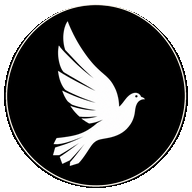
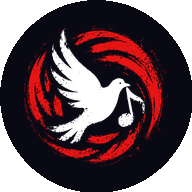
feat: integrate red Nowarfy YouToo identity

diff --git a/index.html b/index.html
@@ -4,7 +4,7 @@
     <meta charset="UTF-8">
     <meta name="viewport" content="width=device-width, initial-scale=1.0, maximum-scale=1.0, user-scalable=no">
     <title>Nowarfy · YouToo</title>
-    <meta name="theme-color" content="#8B5CF6">
+    <meta name="theme-color" content="#ef4444">
     <meta name="apple-mobile-web-app-capable" content="yes">
     <meta name="apple-mobile-web-app-status-bar-style" content="black-translucent">
     <link rel="manifest" href="/manifest.webmanifest">
@@ -674,8 +674,11 @@
         body.mode-youtoo .sidebar::after { content: 'VIDEO · AUDIO · CREADORES'; color: #72738f; font-weight: 800; font-size: .58rem; letter-spacing: .13em; margin-top: auto; padding: 0 10px 6px; }
         body.mode-youtoo .logo { font-size: 1.5rem; padding: 0 10px; }
         body.mode-youtoo .brand-nowarfi { display: none; }
-        .brand-youtoo { display: none; align-items: center; gap: 9px; }
-        .brand-youtoo img { width: 38px; height: 38px; display: block; border-radius: 50%; background: transparent; object-fit: contain; filter: drop-shadow(0 0 7px rgba(255,255,255,.16)); }
+        .brand-youtoo { display: none; align-items: center; min-width: 0; }
+        .brand-lockup { display: inline-flex; align-items: center; gap: 8px; min-width: 0; color: #fff; white-space: nowrap; }
+        .brand-lockup-mark { width: 42px; height: 42px; flex: 0 0 42px; display: block; object-fit: contain; filter: drop-shadow(0 0 9px rgba(239,68,68,.2)); }
+        .brand-lockup-text { display: inline-flex; align-items: baseline; gap: 5px; color: #fff; font: 800 1.08rem/1 'Manrope', sans-serif; letter-spacing: -.055em; }
+        .brand-lockup-text span { color: #f3f4f6; font-size: .72em; letter-spacing: -.04em; }
         body.mode-youtoo .brand-youtoo { display: flex; }
         body.mode-youtoo .nav-links li { border-radius: 11px; padding: 11px 13px; }
         body.mode-youtoo .nav-links li.active { background: linear-gradient(90deg, rgba(167,139,250,.2), rgba(94,234,212,.05)); }
@@ -834,6 +837,13 @@
         body.mode-youtoo .sidebar { min-height: 0; padding: 18px 14px calc(var(--player-height) + 18px); gap: 16px; overflow-y: auto; overscroll-behavior: contain; scroll-padding-bottom: calc(var(--player-height) + 18px); }
         body.mode-youtoo .logo { display: flex; align-items: center; min-height: 38px; }
         .brand-youtoo small { color: #8f90aa; font: 800 .62rem 'Manrope', sans-serif; letter-spacing: .08em; }
+        .home-welcome-copy { min-width: 0; display: flex; flex-direction: column; align-items: flex-start; }
+        .home-welcome-copy:has(.home-welcome-logo) { align-items: center; text-align: center; }
+        .home-welcome-logo { position: relative; z-index: 1; display: inline-flex; align-items: center; gap: 13px; margin: 0 auto 13px; color: #fff; }
+        .home-welcome-logo .brand-lockup-mark { width: 84px; height: 84px; flex-basis: 84px; }
+        .home-welcome-logo .brand-lockup-text { font-size: clamp(1.35rem, 3vw, 2rem); }
+        .home-welcome > .home-welcome-copy { min-width: 0; }
+        .home-welcome-copy .home-welcome-kicker { margin-top: 2px; }
         .nowarfy-nav-groups { display: flex; flex: 0 0 auto; min-height: auto; flex-direction: column; gap: 18px; }
         .nowarfy-nav-group { margin: 0; }
         .nowarfy-nav-label { display: block; padding: 0 11px 7px; color: #73748f; font: 800 .62rem 'Manrope', sans-serif; letter-spacing: .13em; text-transform: uppercase; }
@@ -1083,8 +1093,10 @@
         @media (max-width: 768px) {
             body.mode-youtoo .sidebar { position: sticky; top: 0; z-index: 900; width: 100%; min-height: 58px; height: auto; padding: 9px 12px; display: grid; grid-template-columns: 1fr auto auto; gap: 8px; align-items: center; overflow: visible; }
             body.mode-youtoo .sidebar .logo { display: flex; align-items: center; padding: 0; min-width: 0; overflow: hidden; }
-            body.mode-youtoo .sidebar .brand-youtoo { display: flex !important; align-items: center; min-width: 0; overflow: hidden; color: #fff; font-size: 1rem; gap: 6px; white-space: nowrap; }
-            body.mode-youtoo .sidebar .brand-youtoo img { width: 30px; height: 30px; }
+        body.mode-youtoo .sidebar .brand-youtoo { display: flex !important; align-items: center; min-width: 0; overflow: hidden; color: #fff; font-size: 1rem; }
+        body.mode-youtoo .sidebar .brand-lockup { width: 100%; gap: 7px; }
+        body.mode-youtoo .sidebar .brand-lockup-mark { width: 39px; height: 39px; flex-basis: 39px; }
+        body.mode-youtoo .sidebar .brand-lockup-text { font-size: 1.02rem; }
             .nowarfy-mobile-action { display: inline-flex; align-items: center; justify-content: center; gap: 6px; width: auto; min-width: 40px; height: 40px; padding: 0 10px; border: 1px solid rgba(190,188,255,.2); border-radius: 12px; color: #f4f2ff; background: rgba(255,255,255,.08); font-size: 1rem; }
             .nowarfy-mobile-action-text { display: inline; font-size: .7rem; font-weight: 800; letter-spacing: .01em; }
             .nowarfy-mobile-action:active { transform: scale(.94); }
@@ -1121,6 +1133,8 @@
         @media (max-width: 380px) {
             body.mode-youtoo .sidebar { padding-left: 8px; padding-right: 8px; }
             body.mode-youtoo .sidebar .brand-youtoo { font-size: .9rem; }
+            body.mode-youtoo .sidebar .brand-lockup-mark { width: 34px; height: 34px; flex-basis: 34px; }
+            body.mode-youtoo .sidebar .brand-lockup-text { font-size: .9rem; }
             body.mode-youtoo .nowarfy-mobile-action { min-width: 36px; width: auto; height: 36px; padding: 0 8px; gap: 5px; }
             body.mode-youtoo .nowarfy-mobile-action-text { font-size: .64rem; }
             body.mode-youtoo .player-bar { height: 146px; min-height: 146px; }
@@ -1137,7 +1151,7 @@
     <div class="main-container">
         <!-- SIDEBAR -->
         <aside class="sidebar" aria-label="Navegación principal de Nowarfy">
-            <div class="logo"><span class="brand-nowarfi"><img class="brand-nowarfi-mark" src="assets/nowarfy-icon-512.png" alt=""> Nowarfy</span><span class="brand-youtoo"><img src="assets/nowarfy-icon-512.png" alt="Paloma de Nowarfy"> Nowarfy <small>· YouToo</small></span></div>
+            <div class="logo"><span class="brand-nowarfi"><img class="brand-nowarfi-mark" src="assets/nowarfy-logo-red-solid.png" alt=""> Nowarfy</span><span class="brand-youtoo"><span class="brand-lockup"><img class="brand-lockup-mark" src="assets/nowarfy-logo-red-solid.png" alt=""><span class="brand-lockup-text"><strong>Nowarfy</strong><span>YouToo</span></span></span></span></div>
             <button type="button" class="nowarfy-mobile-action nowarfy-mobile-menu-toggle" id="nowarfyMobileMenuToggle" onclick="toggleNowarfyMobileNav()" aria-label="Abrir menú" aria-expanded="false"><i class="fas fa-bars"></i><span class="nowarfy-mobile-action-text">Menú</span></button>
             <button type="button" class="nowarfy-mobile-action nowarfy-mobile-account-toggle" onclick="openNowarfyAuth()" aria-label="Abrir cuenta"><i class="fas fa-user"></i><span class="nowarfy-mobile-action-text">Cuenta</span></button>
             <div class="nowarfy-nav-groups">
@@ -3091,10 +3105,10 @@
             welcome.type = 'button';
             welcome.className = 'home-welcome';
             if (lastViewed?.title) {
-                welcome.innerHTML = `<span><span class="home-welcome-kicker">Bienvenido de nuevo</span><h1>Seguimos desde donde quedaste</h1><p>Lo último que viste fue <strong>${escapeHtml(lastViewed.title)}</strong>${lastViewed.artist ? ` · ${escapeHtml(lastViewed.artist)}` : ''}. El reproductor empieza detenido: tocá esta tarjeta o el botón de reproducir cuando quieras continuar.</p></span>${lastViewed.img ? `<img class="home-welcome-art" src="${escapeHtml(lastViewed.img)}" alt="" loading="lazy">` : ''}`;
+                welcome.innerHTML = `<span class="home-welcome-copy"><span class="home-welcome-logo"><img class="brand-lockup-mark" src="assets/nowarfy-logo-red-solid.png" alt=""><span class="brand-lockup-text"><strong>Nowarfy</strong><span>YouToo</span></span></span><span class="home-welcome-kicker">Bienvenido de nuevo</span><h1>Seguimos desde donde quedaste</h1><p>Lo último que viste fue <strong>${escapeHtml(lastViewed.title)}</strong>${lastViewed.artist ? ` · ${escapeHtml(lastViewed.artist)}` : ''}. El reproductor empieza detenido: tocá esta tarjeta o el botón de reproducir cuando quieras continuar.</p></span>${lastViewed.img ? `<img class="home-welcome-art" src="${escapeHtml(lastViewed.img)}" alt="" loading="lazy">` : ''}`;
                 welcome.addEventListener('click', () => selectSong(lastViewed, 0));
             } else {
-                welcome.innerHTML = `<span><span class="home-welcome-kicker">Bienvenido a Nowarfy · YouToo</span><h1>Descubrí música real, sin límites</h1><p>Explorá artistas, canales y fuentes musicales. El reproductor empieza detenido para que vos elijas cuándo comenzar.</p></span>`;
+                welcome.innerHTML = `<span class="home-welcome-copy"><span class="home-welcome-logo"><img class="brand-lockup-mark" src="assets/nowarfy-logo-red-solid.png" alt=""><span class="brand-lockup-text"><strong>Nowarfy</strong><span>YouToo</span></span></span><span class="home-welcome-kicker">Bienvenido a Nowarfy · YouToo</span><h1>Descubrí música real, sin límites</h1><p>Explorá artistas, canales y fuentes musicales. El reproductor empieza detenido para que vos elijas cuándo comenzar.</p></span>`;
             }
             container.appendChild(welcome);
         }

diff --git a/sw.js b/sw.js
@@ -1,4 +1,4 @@
-const CACHE_NAME = 'nowarfy-shell-v15';
+const CACHE_NAME = 'nowarfy-shell-v19';
 const APP_SHELL = [
   '/',
   '/index.html',
@@ -8,6 +8,7 @@ const APP_SHELL = [
   '/assets/nowarfy-icon-192.png',
   '/assets/nowarfy-icon-512.png',
   '/assets/nowarfy-apple-touch-icon.png',
+  '/assets/nowarfy-logo-red-solid.png',
   '/assets/nowarfy-qr.png'
 ];
 
